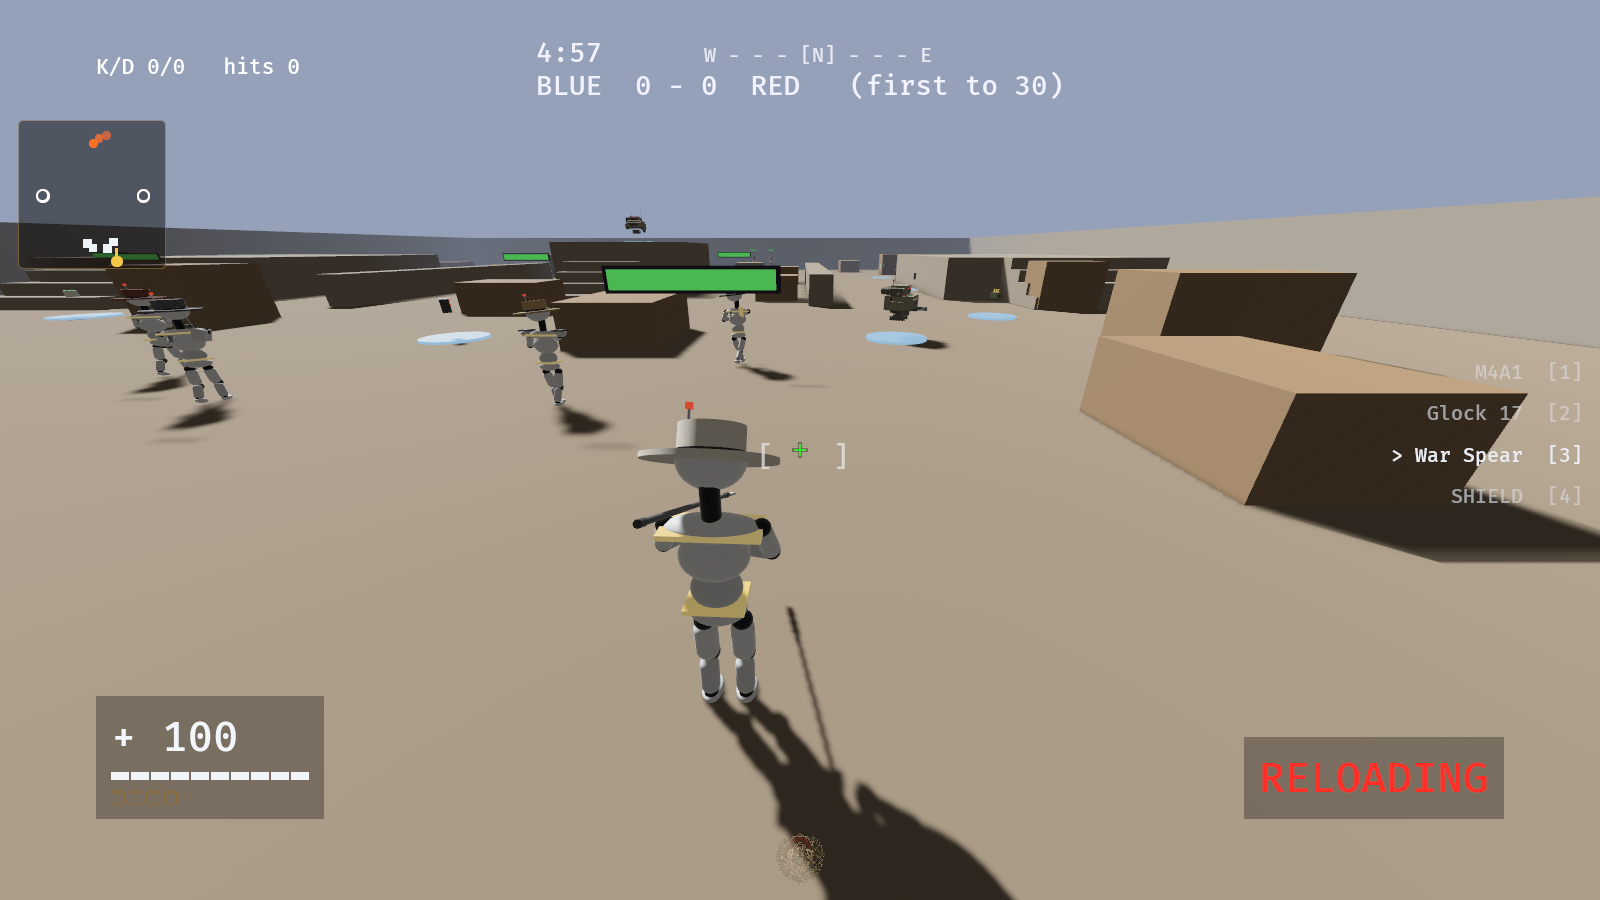
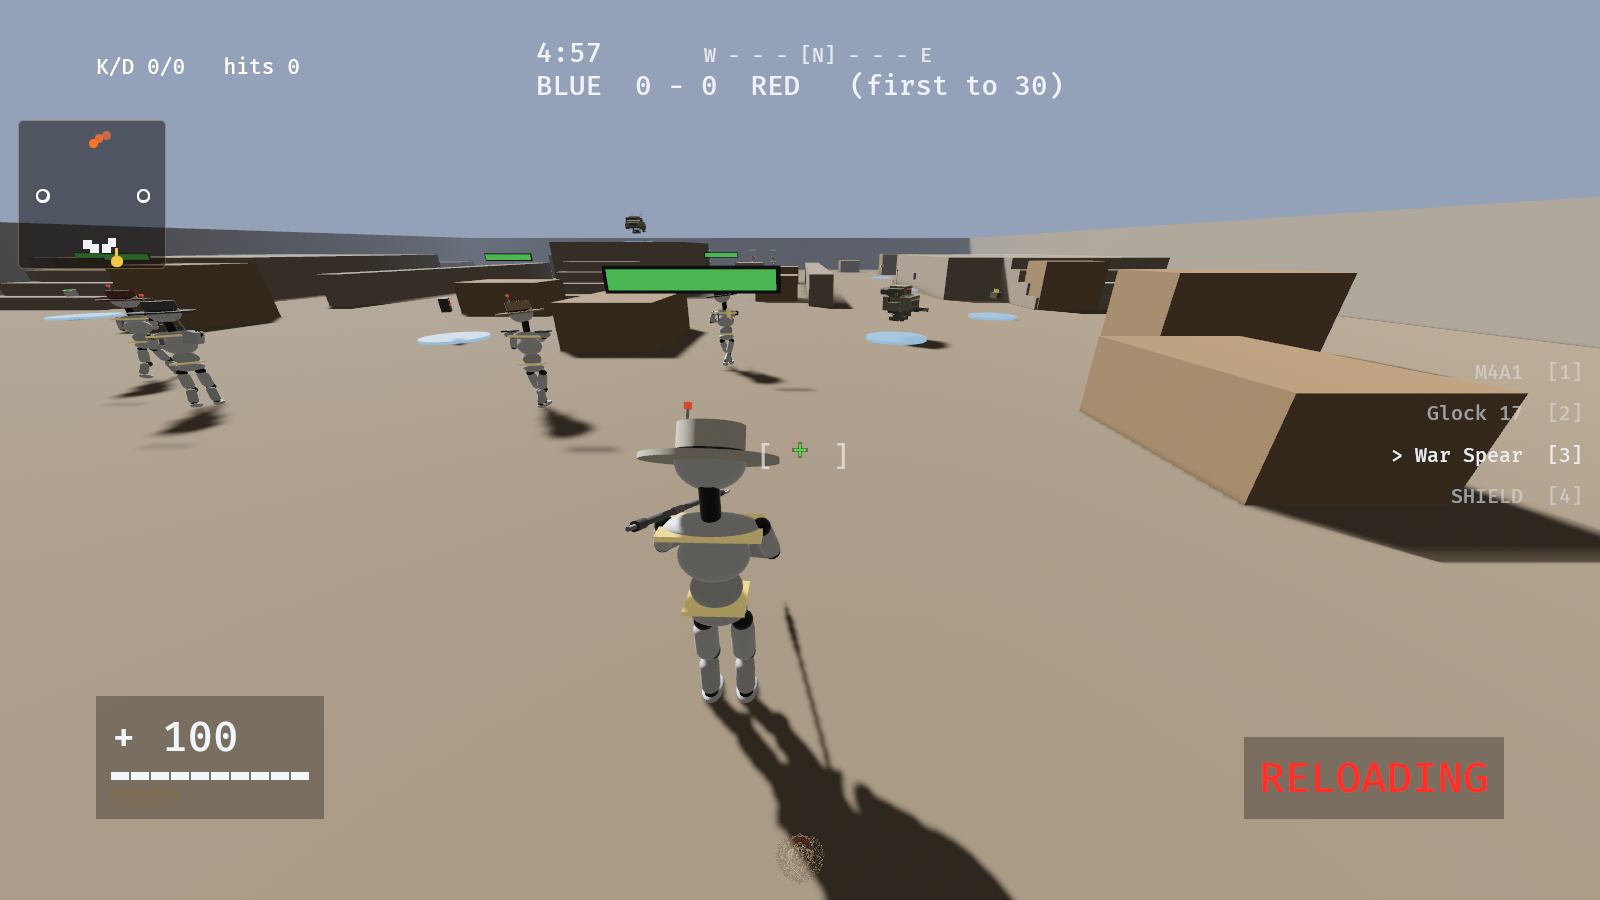
Detail the javelin and the sniper; make the throw readable at range
JAVELIN. It was a broomstick with a wedge on the end. It now has a leaf
blade with a raised midrib tapering to a point, a socket collar with
rivets where the head seats onto the haft, three cord wraps at the grip
where the hand actually sits, and a weighted butt with a spike - the
counterweight that makes a javelin fly nose-first rather than tumble.

SNIPER. The AWM was a long tube with a box on top. Added the parts that
make a rifle read as a sniper: elevation and windage turrets on the
scope, a turned-down bolt handle off the right of the receiver, a
detachable box magazine, a raised cheek piece on the comb, and a
three-slot muzzle brake.

THE THROW. The third-person motion existed and travelled about six
centimetres - technically present, invisible in play. A javelin throw is
the most telegraphed action in the game and SHOULD be: it is a
committed, single-shot, empty-your-hands decision, and the enemy is
entitled to see it coming.

It is two beats now. COCK: the arm hauls the shaft up and back over the
shoulder, out beside the head. WHIP: the hips are already opening under
it (`torso_coil_yaw` was always doing its half), and the arm drives
through hard and past neutral, so the release looks thrown rather than
dropped. Verified by capture - the cocked shaft is unmistakable from
behind at match range.

diff --git a/engine/crates/jk_tdm/src/main.rs b/engine/crates/jk_tdm/src/main.rs
@@ -5470,6 +5470,27 @@ fn spawn_weapon_model(
             parts.push(wp(false, Tone::Dark, (-0.045, -0.08, 0.42), 0.0, (0.012, 0.14, 0.012)));
             parts.push(wd(true, Tone::Light, (0.0, 0.10, 0.02), FRAC_PI_2, (0.060, 0.02, 0.060)));
             parts.push(wd(true, Tone::Light, (0.0, 0.10, 0.14), FRAC_PI_2, (0.060, 0.02, 0.060)));
+            // §owner: the parts that make a rifle read as a SNIPER rather
+            // than a long tube - elevation and windage turrets, the bolt
+            // you cycle between shots, a box magazine, a cheek riser, and
+            // a slotted brake on the muzzle.
+            // elevation turret on top of the scope, windage on the side
+            parts.push(wp(true, Tone::Dark, (0.0, 0.148, 0.10), 0.0, (0.036, 0.030, 0.036)));
+            parts.push(wp(true, Tone::Black, (0.0, 0.166, 0.10), 0.0, (0.026, 0.012, 0.026)));
+            parts.push(wp(true, Tone::Dark, (0.052, 0.10, 0.10), FRAC_PI_2, (0.032, 0.028, 0.032)));
+            // bolt handle: a stub off the right of the receiver, angled
+            // down and back the way a turned-down bolt sits
+            parts.push(wp(true, Tone::Mid, (0.046, 0.045, -0.05), FRAC_PI_2, (0.018, 0.075, 0.018)));
+            parts.push(wp(true, Tone::Black, (0.082, 0.032, -0.05), FRAC_PI_2, (0.024, 0.030, 0.024)));
+            // detachable box magazine under the action
+            parts.push(wp(false, Tone::Dark, (0.0, -0.075, 0.03), 0.10, (0.038, 0.10, 0.10)));
+            parts.push(wp(false, Tone::Black, (0.0, -0.128, 0.03), 0.10, (0.042, 0.012, 0.11)));
+            // raised cheek piece on the comb
+            parts.push(wp(false, Tone::Mid, (0.0, 0.055, -0.20), 0.0, (0.040, 0.030, 0.20)));
+            // slotted muzzle brake - three cuts, the sniper's own tell
+            for bz in [0.885_f32, 0.905, 0.925] {
+                parts.push(wp(false, Tone::Black, (0.0, 0.052, bz), 0.0, (0.050, 0.008, 0.006)));
+            }
         }
         GunKind::M249 => {
             // belt-fed support gun: deep receiver, box mag, thick barrel
@@ -5546,11 +5567,30 @@ fn spawn_weapon_model(
             parts.push(wd(false, Tone::Reticle, (0.0, 0.052, 0.044), 0.0, (0.006, 0.006, 0.006)));
         }
         GunKind::Spear => {
-            // war spear: dark shaft, light flat blade, black collar + butt
+            // §owner: a JAVELIN, not a broomstick with a wedge on it. The
+            // head is a leaf blade with a raised midrib and a socket that
+            // swallows the shaft; the haft carries a bound grip where the
+            // hand goes and a weighted butt that balances the throw.
             parts.push(wp(true, Tone::Dark, (0.0, 0.0, 0.35), FRAC_PI_2, (0.032, 1.85, 0.032)));
-            parts.push(wp(false, Tone::Light, (0.0, 0.0, 1.32), 0.0, (0.055, 0.018, 0.22)));
-            parts.push(wp(true, Tone::Black, (0.0, 0.0, 1.18), FRAC_PI_2, (0.042, 0.09, 0.042)));
-            parts.push(wp(true, Tone::Black, (0.0, 0.0, -0.56), FRAC_PI_2, (0.038, 0.07, 0.038)));
+            // leaf blade: a wide belly tapering to a point, with the
+            // midrib proud along its spine
+            parts.push(wp(false, Tone::Light, (0.0, 0.0, 1.30), 0.0, (0.058, 0.016, 0.20)));
+            parts.push(wp(false, Tone::Light, (0.0, 0.0, 1.42), 0.0, (0.030, 0.013, 0.10)));
+            parts.push(wp(false, Tone::Mid, (0.0, 0.0, 1.30), 0.0, (0.014, 0.026, 0.19)));
+            parts.push(wp(false, Tone::Light, (0.0, 0.0, 1.485), 0.0, (0.012, 0.010, 0.05)));
+            // socket: the collar the blade seats into, with two rivets
+            parts.push(wp(true, Tone::Black, (0.0, 0.0, 1.17), FRAC_PI_2, (0.046, 0.11, 0.046)));
+            for rz in [1.135_f32, 1.205] {
+                parts.push(wp(true, Tone::Mid, (0.026, 0.0, rz), FRAC_PI_2, (0.012, 0.012, 0.012)));
+            }
+            // bound grip where the hand sits - three cord wraps
+            for gz in [-0.06_f32, 0.0, 0.06] {
+                parts.push(wp(true, Tone::Mid, (0.0, 0.0, gz), FRAC_PI_2, (0.040, 0.030, 0.040)));
+            }
+            // weighted butt + a spike, the counterweight that makes a
+            // javelin fly nose-first
+            parts.push(wp(true, Tone::Black, (0.0, 0.0, -0.54), FRAC_PI_2, (0.044, 0.10, 0.044)));
+            parts.push(wp(true, Tone::Mid, (0.0, 0.0, -0.62), FRAC_PI_2, (0.020, 0.07, 0.020)));
             parts.push(wd(false, Tone::Light, (0.0, 0.0, 1.10), 0.0, (0.045, 0.045, 0.02)));
         }
         GunKind::Minigun => {
@@ -10248,16 +10288,40 @@ fn sync_fighters(
         };
         let reload_cant = if f.reload_t > 0.0 { 0.44 } else { 0.0 };
         let (wr_pos, wr_rot) = if spear_cocked || f.spear_wind_t > 0.0 {
-            // §3.2: drawn back level with the shoulder through the wind,
-            // whipping forward at release
-            let wind_back = if f.spear_wind_t > 0.0 {
-                (1.0 - f.spear_wind_t / SPEAR_WINDUP_S).min(0.68) * 0.8
+            // §owner: a JAVELIN THROW, in two beats you can read from
+            // across the field.
+            //
+            // The old motion travelled about six centimetres and rotated
+            // a little - technically present, invisible in play. A throw
+            // is the most telegraphed action in the game and SHOULD be:
+            // it is a committed, single-shot, empty-your-hands decision,
+            // and the enemy is entitled to see it coming.
+            //
+            // COCK (first ~65% of the wind): the arm hauls the shaft up
+            // and back over the shoulder, out to the side of the head.
+            // WHIP (last ~35%): the hips are already opening under it
+            // (`torso_coil_yaw`), and the arm drives through hard, past
+            // neutral, so the release looks thrown rather than dropped.
+            let wp = if f.spear_wind_t > 0.0 {
+                (1.0 - f.spear_wind_t / SPEAR_WINDUP_S).clamp(0.0, 1.0)
             } else {
                 0.0
             };
+            const COCK_FRAC: f32 = 0.65;
+            let (cock, whip) = if wp < COCK_FRAC {
+                (ease_out(wp / COCK_FRAC), 0.0)
+            } else {
+                (1.0, ease_out((wp - COCK_FRAC) / (1.0 - COCK_FRAC)))
+            };
             (
-                Vec3::new(0.16, 0.72, 0.02 - 0.12 * wind_back),
-                Quat::from_rotation_x(wr_pitch - 1.35 - 0.5 * wind_back + jerk * 1.5),
+                Vec3::new(
+                    0.16 + 0.10 * cock - 0.06 * whip,
+                    0.72 + 0.17 * cock - 0.10 * whip,
+                    0.02 - 0.34 * cock + 0.78 * whip,
+                ),
+                Quat::from_rotation_x(
+                    wr_pitch - 1.35 - 0.62 * cock + 1.45 * whip + jerk * 1.5,
+                ),
             )
         } else if f.gun == GunKind::Bow {
             // the bow stands in front of the LEFT side
